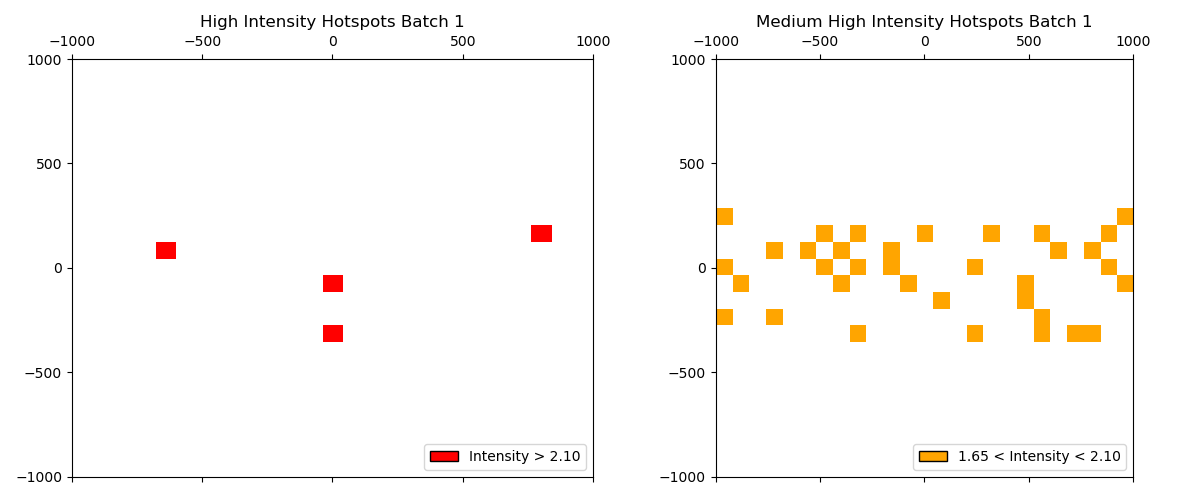
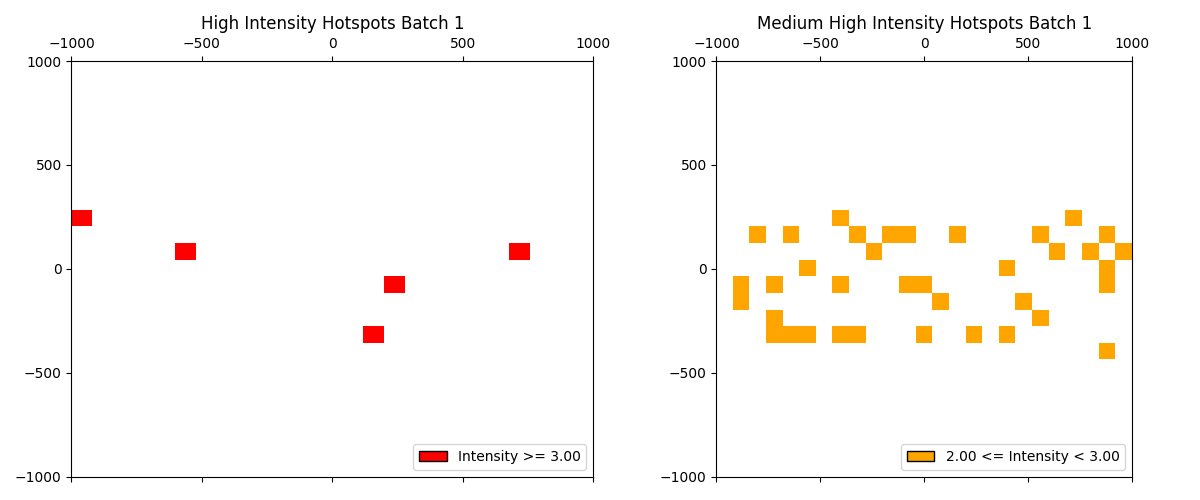
thresholding

diff --git a/testing.py b/testing.py
@@ -154,19 +154,12 @@ def plot_intensity(final_intensity_data, batch, grid_size=25):
     # Calculate the histogram
     hist, xedges, yedges = np.histogram2d(data[:, 1], data[:, 0], bins=grid_size, range=range_values)
 
-    # Calculate threshold
-    cou = []
-    for x in range(0, grid_size):
-        for y in range(0, grid_size):
-            c = hist[x][y]
-            cou.append(c)
-    maximum = (max(cou))
-    d1 = maximum * 0.70
-    d2 = maximum * 0.55
+    d1 = globals()['d1']
+    d2 = globals()['d2']
 
     # Create masks based on the adjusted thresholds
     high_intensity_mask = np.where(hist >= d1, 1, 0)
-    medium_high_intensity_mask = np.where((hist > d2) & (hist <= d1), 0.5, 0)
+    medium_high_intensity_mask = np.where((hist >= d2) & (hist < d1), 0.5, 0)
 
     # Plot high-intensity and medium-high intensity spots side by side
     fig, axes = plt.subplots(1, 2, figsize=(12, 5))
@@ -174,14 +167,14 @@ def plot_intensity(final_intensity_data, batch, grid_size=25):
     # Plot high-intensity spots
     cmap = ListedColormap(['white', 'red'])
     im1 = axes[0].matshow(high_intensity_mask, extent=np.ravel([-1000, 1000, -1000, 1000]), cmap=cmap, aspect='auto')
-    legend_elements1 = [Patch(facecolor='red', edgecolor='black', label=f'Intensity > {d1:2.2f}')]
+    legend_elements1 = [Patch(facecolor='red', edgecolor='black', label=f'Intensity >= {d1:2.2f}')]
     axes[0].legend(handles=legend_elements1, loc='lower right')
     axes[0].set_title(f"High Intensity Hotspots Batch {batch}")
 
     # Plot medium-high intensity spots
     cmap = ListedColormap(['white', 'orange'])
     im2 = axes[1].matshow(medium_high_intensity_mask, extent=np.ravel([-1000, 1000, -1000, 1000]), cmap=cmap, aspect='auto')
-    legend_elements2 = [Patch(facecolor='orange', edgecolor='black', label=f'{d2:2.2f} < Intensity < {d1:2.2f}')]
+    legend_elements2 = [Patch(facecolor='orange', edgecolor='black', label=f'{d2:2.2f} <= Intensity < {d1:2.2f}')]
     axes[1].legend(handles=legend_elements2, loc='lower right')
     axes[1].set_title(f"Medium High Intensity Hotspots Batch {batch}")
 
@@ -218,7 +211,6 @@ attributes_2 = ['duration.s', 'total.counts', 'energy.kev.i', 'energy.kev.f', 'x
 working_data_1 = task1[attributes_1]
 working_data_2 = task1[attributes_2]
 
- 
 # Batch 1
 batch = ((working_data_1['month'].isin([1, 2, 3, 4])) & (working_data_1['year'] == 2004))
 # Use the conditions to filter the DataFrame
@@ -346,9 +338,28 @@ for i in range(1, 12, 1):
 # displayIntensityMethod1(final_intensity_list_batch_11_method_1, 11)
 # displayIntensityMethod2(final_intensity_list_batch_11_method_2, 11)
 
+# Calculating threshold
+overall = fetch_intensity_recursive(working_data_1)
+data = overall.to_numpy()
+range_values = [[-1000, 1000], [-1000, 1000]]
+grid_size = 25
+hist, xedges, yedges = np.histogram2d(data[:, 1], data[:, 0], bins=grid_size, range=range_values)
+cou = []
+for x in range(0, grid_size):
+    for y in range(0, grid_size):
+        c = hist[x][y]
+        cou.append(c)
+cou = [i for i in cou if i != 0.0]
+cou.sort()
+percentile85 = round(len(cou) * .85)
+percentile99 = round(len(cou) * .99)
+d1, d2 = cou[percentile99], cou[percentile85]
+print(d1, d2)
+
 k = 1
 
 while k <= 11:
     function_name = f"final_intensity_list_batch_{k}_method_1"
     plot_intensity(globals()[function_name], k, grid_size=25)
+    print("saved new image")
     k += 1
